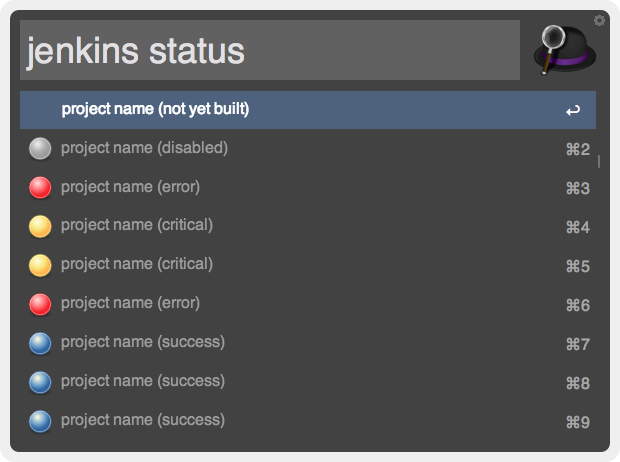
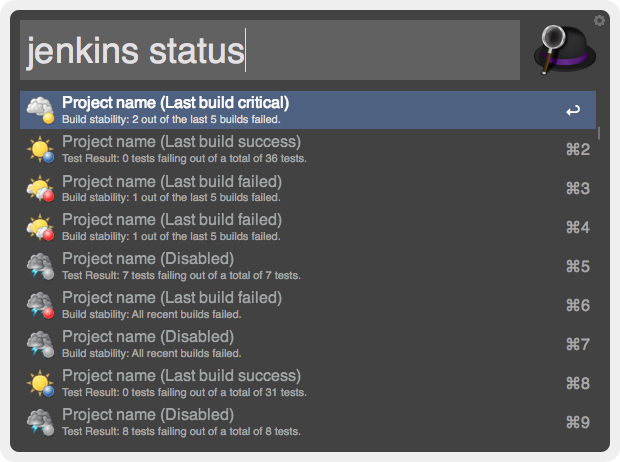
Updated `status` to show health and last status.
Also expanded readme with some extra information.

Changed region(s): [[0.0306, 0.2121, 0.4903, 0.6061], [0.0306, 0.6364, 0.4903, 0.9697]]

diff --git a/source/jenkins.py b/source/jenkins.py
@@ -39,6 +39,7 @@ def execute(query):
         feedback.add_item("status {query}", "Get the status for builds corresponding with {query}", "", "no", "status")
         return feedback
 
+
 def get_status(terms=""):
     """Retrieve the current status of the jobs matching the given terms
 
@@ -55,13 +56,20 @@ def get_status(terms=""):
             for job in data["jobs"]:
                 if re.search(search_regex, job["name"]) != None:
                     title = job["name"]
-                    feedback.add_item(title, "", job["url"], "yes", "", "images/"+job["color"]+".png")
+                    if "healthReport" in job and len(job["healthReport"]) > 0:
+                        subtext = job["healthReport"][0]["description"]
+                        icon = health_to_icon(job["healthReport"][0]["score"], job["color"])
+                    else:
+                        subtext = ""
+                        icon = "images/"+job["color"]+".png"
+                    feedback.add_item(title, subtext, job["url"], "yes", "", icon)
         else:
             feedback.add_item("No results found", "I'm sorry, I failed to find what you were looking for", "", "no")
     else:
         feedback.add_item("An error occured", "It seems I made a mistake somewhere, please forgive me", "", "no")
 
     return feedback
+
 
 def get_data_from_url(url=""):
     """Retrieve data from the configured or given URL
@@ -76,7 +84,7 @@ def get_data_from_url(url=""):
         url = CONFIGURED_URL
 
     try:
-        request = urllib.urlopen(url+"/api/json")
+        request = urllib.urlopen(url+"/api/json?tree=jobs[name,url,color,healthReport[description,score,iconUrl]]")
         if request.getcode() == 200:
             response = request.read()
             returnData = json.loads(response)
@@ -86,6 +94,34 @@ def get_data_from_url(url=""):
         returnData = None
 
     return returnData
+
+
+def health_to_icon(health, color):
+    """Return the correct icon corresponding with the health/color
+
+    Keyword arguments
+    health  -- The health of the job
+    color   -- The color of the job
+
+    """
+    if color == "disabled":
+        color = "grey"
+
+    if health >= 0 and health <= 20:
+        icon = "images/health-00to19-"+color+".png"
+    elif health > 20 and health <= 40:
+        icon = "images/health-20to39-"+color+".png"
+    elif health > 40 and health <= 60:
+        icon = "images/health-40to59-"+color+".png"
+    elif health > 60 and health <= 80:
+        icon = "images/health-60to79-"+color+".png"
+    elif health > 80:
+        icon = "images/health-80plus-"+color+".png"
+    else:
+        icon = "images/"+color+".png"
+
+    return icon
+
 
 def set_url(url):
     """Set the global URL to use

diff --git a/README.md b/README.md
@@ -3,17 +3,13 @@ A configurable workflow for Alfred v2 which lets you list Jenkins jobs and see t
 
 ![image](./alfred-jenkins-workflow-screenshot.png)
 
+## Installation
+
+You can install this workflow by dowloading the [Jenkins.alfredworkflow](https://github.com/jeroenseegers/alfred-jenkins-workflow/raw/master/Jenkins.alfredworkflow) file and either double-clicking it, or dragging it onto the Alfred Workflow screen.
+
+After adding it to your workflow collection, be sure to set the correct URL to your Jenkins CI instance by double-clicking the `Script Filter` and replacing `URL_TO_YOUR_JENKINS_INSTANCE` with the actual URL of your Jenkins CI instance.
+
 ## Usage
-
-Typing `jenkins` followed by part of the job you're looking for will list all matching results.
-
-For example, `jenkins php` could return:
-
-* **phpunit**  
-* **zend-php**
-* **elephpant**
-
-## Commands
 
 The commands currently supported by this workflow are:
 
